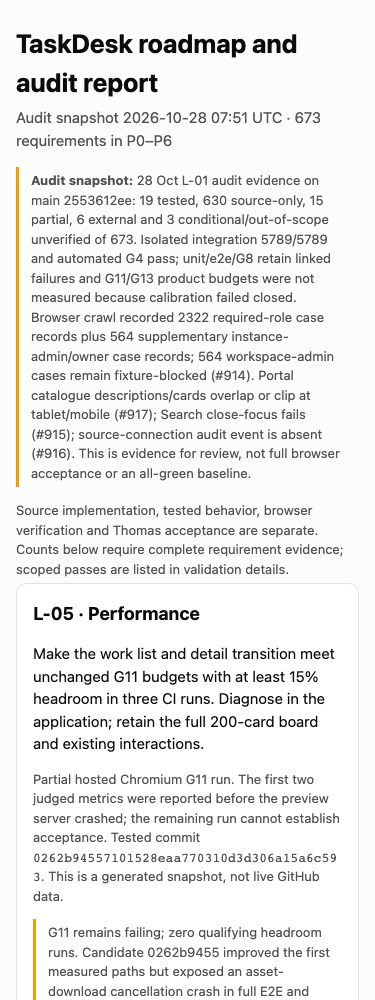
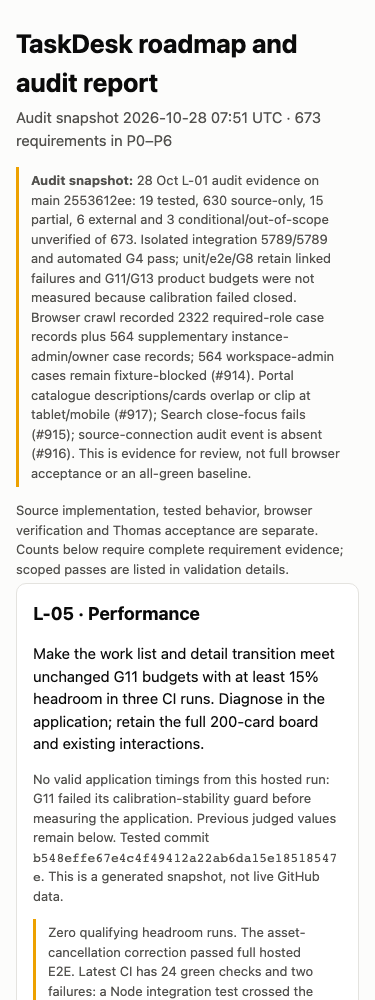
docs(report): expose admin evidence and invalid calibration results

Changed region(s): [[0.088, 0.775, 0.9093, 0.899], [0.1173, 0.93, 0.88, 1.0]]

diff --git a/docs/report/report.html b/docs/report/report.html
@@ -30,10 +30,10 @@ details{margin-top:8px}summary{cursor:pointer;font-weight:600}
 <p class="sub">Audit snapshot 2026-10-28 07:51 UTC · 673 requirements in P0–P6</p>
 <p class="note"><strong>Audit snapshot:</strong> 28 Oct L-01 audit evidence on main 2553612ee: 19 tested, 630 source-only, 15 partial, 6 external and 3 conditional/out-of-scope unverified of 673. Isolated integration 5789/5789 and automated G4 pass; unit/e2e/G8 retain linked failures and G11/G13 product budgets were not measured because calibration failed closed. Browser crawl recorded 2322 required-role case records plus 564 supplementary instance-admin/owner case records; 564 workspace-admin cases remain fixture-blocked (#914). Portal catalogue descriptions/cards overlap or clip at tablet/mobile (#917); Search close-focus fails (#915); source-connection audit event is absent (#916). This is evidence for review, not full browser acceptance or an all-green baseline.</p>
 <p class="meta">Source implementation, tested behavior, browser verification and Thomas acceptance are separate. Counts below require complete requirement evidence; scoped passes are listed in validation details.</p>
-<section class="card"><h2>L-05 · Performance</h2><p>Make the work list and detail transition meet unchanged G11 budgets with at least 15% headroom in three CI runs. Diagnose in the application; retain the full 200-card board and existing interactions.</p><p class="meta">Partial hosted Chromium G11 run. The first two judged metrics were reported before the preview server crashed; the remaining run cannot establish acceptance. Tested commit <code>0262b94557101528eaa770310d3d306a15a6c593</code>. This is a generated snapshot, not live GitHub data.</p><p class="note">G11 remains failing; zero qualifying headroom runs. Candidate 0262b9455 improved the first measured paths but exposed an asset-download cancellation crash in full E2E and G11. A correction is under local validation. The approved isolated workspace-admin fixture passed 24 affected work-item browser cases; broader route and settled visual acceptance remain incomplete.</p><p><a href="https://github.com/ThomasHeinThura/ticketing/pull/919">Draft PR 919</a> · <a href="https://github.com/ThomasHeinThura/ticketing/actions/runs/40751405333/job/123038763633">Hosted CI run and job</a></p>
-<div class="table-wrap" tabindex="0" role="region" aria-label="Latest hosted candidate metrics table"><table><caption>Latest hosted candidate metrics</caption><thead><tr><th scope="col">Metric</th><th scope="col">Measured</th><th scope="col">Budget</th><th scope="col">15% headroom</th><th scope="col">Budget result</th><th scope="col">Headroom result</th></tr></thead><tbody><tr><th scope="row">Work-list LCP</th><td>2637.7 ms</td><td>&lt; 2500 ms</td><td>≤ 2125 ms</td><td class="metric-fail">Fail</td><td class="metric-fail">Fail</td></tr><tr><th scope="row">List to detail</th><td>361.6 ms</td><td>&lt; 300 ms</td><td>≤ 255 ms</td><td class="metric-fail">Fail</td><td class="metric-fail">Fail</td></tr><tr><th scope="row">Board drag p95</th><td>Unavailable</td><td>&lt; 20 ms</td><td>≤ 17 ms</td><td class="">Unverified</td><td class="">Unverified</td></tr><tr><th scope="row">Board render</th><td>Unavailable</td><td>&lt; 500 ms</td><td>≤ 425 ms</td><td class="">Unverified</td><td class="">Unverified</td></tr><tr><th scope="row">Assignment click</th><td>Unavailable</td><td>&lt; 200 ms</td><td>≤ 170 ms</td><td class="">Unverified</td><td class="">Unverified</td></tr><tr><th scope="row">State click</th><td>Unavailable</td><td>&lt; 200 ms</td><td>≤ 170 ms</td><td class="">Unverified</td><td class="">Unverified</td></tr></tbody></table></div><p class="meta">Hosted G11: 10 passed, 12 failed. LCP and detail exceeded budgets before a preview-server streaming-abort crash caused connection-refused failures. Full E2E also failed after that crash. No current-candidate board or assignment acceptance is claimed. The previous complete run is retained below.</p><p class="meta">Verified ec0695723 checks (before the new notification-batching experiment): 3326 web tests, 7 mocked browser journeys, 9 typecheck tasks, clean tracked-source lint (0 errors, 265 existing warnings, 15 infos), 401 contrast pairs and bundle limits pass. Persisted local SIT ec0695723: 96 agent cases (owner/lead/member/viewer × list/table/board/detail × three widths × two themes) and 6 customer portal cases pass after retaining and diagnosing initial harness failures. Pointer and keyboard drag cancellation preserve state/rank/version with zero record writes. Thomas approved an isolated QA workspace/project/identity for #914; workspace-admin-only role verification and 24 work-item cases pass (three widths, both themes, list/table/board/detail and reload). The broader 94-route admin crawl is separate and remains incomplete. These are scoped functional checks; initial captures include progressive placeholders, so whole-matrix settled visual acceptance is pending. Follow-up candidate 0262b9455 passes 7208 unit tests, nine typecheck tasks, 13 mocked browser journeys (including deferred translation failures/retry), 401 contrast pairs, raw UI, permission, contract, route-policy and bundle checks. Its local diagnostic LCP is 2240–2276 ms and detail is 121–170 ms; these are not hosted acceptance or the required headroom. Fresh Testcontainers integration passed 5789 tests across 478 files. Hosted G4 and G8 passed for 0262b9455. Pinned visual G8: 104 passed, one known module-detail mismatch (#908); actual and diff PNGs are byte-identical to the baseline audit. Sequential G4: 19 passed, two board-readiness failures before axe; these are being diagnosed, not waived. Asset-cancellation correction passes two focused HTTP tests plus six helper/adapter tests; it remains uncommitted and unverified by full hosted E2E.</p><details><summary>Previous hosted candidate</summary><p class="meta">Tested commit <code>ec06957233d7b8e9122e8efcc024986108c41e6f</code> · <a href="https://github.com/ThomasHeinThura/ticketing/actions/runs/40731412562/job/122968440838">Previous hosted job</a>. Hosted Chromium G11 harness-reported judged values; calibration was valid per linked job. Board drag p95 is raw.</p><ul><li>Work-list LCP: 2853.6 ms; budget &lt; 2500 ms; headroom target ≤ 2125 ms; budget Fail.</li><li>List to detail: 1103.5 ms; budget &lt; 300 ms; headroom target ≤ 255 ms; budget Fail.</li><li>Board drag p95: 16.8 ms; budget &lt; 20 ms; headroom target ≤ 17 ms; budget Pass.</li><li>Board render: 467.1 ms; budget &lt; 500 ms; headroom target ≤ 425 ms; budget Pass.</li><li>Assignment click: 184.6 ms; budget &lt; 200 ms; headroom target ≤ 170 ms; budget Pass.</li><li>State click: 190.0 ms; budget &lt; 200 ms; headroom target ≤ 170 ms; budget Pass.</li></ul><p class="meta">Hosted CI: 25 other checks green including full integration, G8, G4 and E2E; G11 alone failed (20 passed, 2 failed). Detail value 1103.5 ms is the second judged set; the first set measured 1063.9 ms.</p><p class="meta">Tested commit <code>48dec6ed2dc5daf6c73a771a652a8fb4d58feac8</code> · <a href="https://github.com/ThomasHeinThura/ticketing/actions/runs/40714505114/job/122908390393">Previous hosted job</a>. Hosted Chromium G11 judged values: CPU-bound metrics normalized; board-drag p95 raw. Worker calibration readings were 1.096–1.178; unthrottled readings were 1.166–1.183, within the existing validity envelope.</p><ul><li>Work-list LCP: 2769.5 ms; budget &lt; 2500 ms; headroom target ≤ 2125 ms; budget Fail.</li><li>List to detail: 518 ms; budget &lt; 300 ms; headroom target ≤ 255 ms; budget Fail.</li><li>Board drag p95: 16.8 ms; budget &lt; 20 ms; headroom target ≤ 17 ms; budget Pass.</li><li>Board render: 412.7 ms; budget &lt; 500 ms; headroom target ≤ 425 ms; budget Pass.</li><li>Assignment click: 165.2 ms; budget &lt; 200 ms; headroom target ≤ 170 ms; budget Pass.</li></ul><p class="meta">Hosted E2E 164 passed, 1 failed (create-control regression).</p></details></section>
+<section class="card"><h2>L-05 · Performance</h2><p>Make the work list and detail transition meet unchanged G11 budgets with at least 15% headroom in three CI runs. Diagnose in the application; retain the full 200-card board and existing interactions.</p><p class="meta">No valid application timings from this hosted run: G11 failed its calibration-stability guard before measuring the application. Previous judged values remain below. Tested commit <code>b548effe67e4c4f49412a22ab6da15e18518547e</code>. This is a generated snapshot, not live GitHub data.</p><p class="note">Zero qualifying headroom runs. The asset-cancellation correction passed full hosted E2E. Latest CI has 24 green checks and two failures: a Node integration test crossed the web package boundary, and G11 calibration was unstable. Both remain explicit; no threshold or boundary exemption was added.</p><p><a href="https://github.com/ThomasHeinThura/ticketing/pull/919">Draft PR 919</a> · <a href="https://github.com/ThomasHeinThura/ticketing/actions/runs/40756787932/job/123057737761">Hosted CI run and job</a></p>
+<div class="table-wrap" tabindex="0" role="region" aria-label="Latest hosted candidate metrics table"><table><caption>Latest hosted candidate metrics</caption><thead><tr><th scope="col">Metric</th><th scope="col">Measured</th><th scope="col">Budget</th><th scope="col">15% headroom</th><th scope="col">Budget result</th><th scope="col">Headroom result</th></tr></thead><tbody><tr><th scope="row">Work-list LCP</th><td>Unavailable</td><td>&lt; 2500 ms</td><td>≤ 2125 ms</td><td class="">Unverified</td><td class="">Unverified</td></tr><tr><th scope="row">List to detail</th><td>Unavailable</td><td>&lt; 300 ms</td><td>≤ 255 ms</td><td class="">Unverified</td><td class="">Unverified</td></tr><tr><th scope="row">Board drag p95</th><td>Unavailable</td><td>&lt; 20 ms</td><td>≤ 17 ms</td><td class="">Unverified</td><td class="">Unverified</td></tr><tr><th scope="row">Board render</th><td>Unavailable</td><td>&lt; 500 ms</td><td>≤ 425 ms</td><td class="">Unverified</td><td class="">Unverified</td></tr><tr><th scope="row">Assignment click</th><td>Unavailable</td><td>&lt; 200 ms</td><td>≤ 170 ms</td><td class="">Unverified</td><td class="">Unverified</td></tr><tr><th scope="row">State click</th><td>Unavailable</td><td>&lt; 200 ms</td><td>≤ 170 ms</td><td class="">Unverified</td><td class="">Unverified</td></tr></tbody></table></div><p class="meta">Hosted b548effe6: E2E, G4, G8 and integration passed. G11 failed closed because throttled calibration batch spread 0.582 exceeded the unchanged 0.55 guard (one failure; 21 tests did not run). Static checks rejected the web-source test importing API code. The Node transport/test extraction now passes eight focused tests, API/web typechecks and the original dependency-boundary checker locally; hosted verification of that correction is pending.</p><p class="meta">At b548effe6: 7211 unit tests, 5789 fresh Testcontainers integration tests across 478 files, 166 full Chromium E2E tests, nine typecheck tasks, clean-source lint, raw UI, 401 contrast pairs, permission/route-policy/contract and bundle checks pass. Local pinned G8 retains the known module-detail mismatch (#908): 104/105, with actual/diff images byte-identical to L-01. Local pinned G4 recorded two board-readiness failures (19/21); these are not described as passes. Persisted SIT remains ec0695723; candidate SIT acceptance is pending. The lazy-formatter experiment removes 81.9 ms of sampled unused initialization but has no demonstrated net LCP gain (uncalibrated three-run medians 3876 vs 3976 ms); no performance acceptance is claimed.</p><details><summary>Workspace-admin follow-up evidence</summary><p class="meta">Approved isolated workspace-admin fixture: 24 affected work-item cases passed; six representative captures were visually inspected. Broader crawl recorded all 564 planned cases: 54 settled content, 84 expected denials, 132 missing fixtures and 294 unconfirmed. This is partial evidence, not whole-feature or whole-matrix visual acceptance; issue #914 remains open. Existing memberships/customer records were preserved and the SIT account seeder was not rerun.</p><p><a href="https://github.com/ThomasHeinThura/ticketing/blob/936868c9ba8c45607f3522c8eceee2f2af88d071/docs/report/audit/l05-workspace-admin-followup.json">Role assertions and complete case ledger</a></p><ul><li><a href="https://github.com/ThomasHeinThura/ticketing/blob/936868c9ba8c45607f3522c8eceee2f2af88d071/docs/report/browser/l05-workspace-admin/admin-light-1440-list.png">Desktop light list</a></li><li><a href="https://github.com/ThomasHeinThura/ticketing/blob/936868c9ba8c45607f3522c8eceee2f2af88d071/docs/report/browser/l05-workspace-admin/admin-dark-1440-board.png">Desktop dark board</a></li><li><a href="https://github.com/ThomasHeinThura/ticketing/blob/936868c9ba8c45607f3522c8eceee2f2af88d071/docs/report/browser/l05-workspace-admin/admin-light-768-table.png">Tablet light table</a></li><li><a href="https://github.com/ThomasHeinThura/ticketing/blob/936868c9ba8c45607f3522c8eceee2f2af88d071/docs/report/browser/l05-workspace-admin/admin-dark-768-detail.png">Tablet dark detail</a></li><li><a href="https://github.com/ThomasHeinThura/ticketing/blob/936868c9ba8c45607f3522c8eceee2f2af88d071/docs/report/browser/l05-workspace-admin/admin-light-375-detail.png">Mobile light detail</a></li><li><a href="https://github.com/ThomasHeinThura/ticketing/blob/936868c9ba8c45607f3522c8eceee2f2af88d071/docs/report/browser/l05-workspace-admin/admin-dark-375-list.png">Mobile dark list</a></li></ul></details><details><summary>Previous hosted candidates</summary><p class="meta">Tested commit <code>0262b94557101528eaa770310d3d306a15a6c593</code> · <a href="https://github.com/ThomasHeinThura/ticketing/actions/runs/40751405333/job/123038763633">Previous hosted job</a>. Partial hosted Chromium G11 run. The first two judged metrics were reported before the preview server crashed; the remaining run cannot establish acceptance.</p><ul><li>Work-list LCP: 2637.7 ms; budget &lt; 2500 ms; headroom target ≤ 2125 ms; budget Fail.</li><li>List to detail: 361.6 ms; budget &lt; 300 ms; headroom target ≤ 255 ms; budget Fail.</li><li>Board drag p95: Unavailable; budget &lt; 20 ms; headroom target ≤ 17 ms; budget Unverified.</li><li>Board render: Unavailable; budget &lt; 500 ms; headroom target ≤ 425 ms; budget Unverified.</li><li>Assignment click: Unavailable; budget &lt; 200 ms; headroom target ≤ 170 ms; budget Unverified.</li><li>State click: Unavailable; budget &lt; 200 ms; headroom target ≤ 170 ms; budget Unverified.</li></ul><p class="meta">Hosted G11: 10 passed, 12 failed. LCP and detail exceeded budgets before a preview-server streaming-abort crash caused connection-refused failures. Full E2E also failed after that crash. No current-candidate board or assignment acceptance is claimed. The previous complete run is retained below.</p><p class="meta">Tested commit <code>ec06957233d7b8e9122e8efcc024986108c41e6f</code> · <a href="https://github.com/ThomasHeinThura/ticketing/actions/runs/40731412562/job/122968440838">Previous hosted job</a>. Hosted Chromium G11 harness-reported judged values; calibration was valid per linked job. Board drag p95 is raw.</p><ul><li>Work-list LCP: 2853.6 ms; budget &lt; 2500 ms; headroom target ≤ 2125 ms; budget Fail.</li><li>List to detail: 1103.5 ms; budget &lt; 300 ms; headroom target ≤ 255 ms; budget Fail.</li><li>Board drag p95: 16.8 ms; budget &lt; 20 ms; headroom target ≤ 17 ms; budget Pass.</li><li>Board render: 467.1 ms; budget &lt; 500 ms; headroom target ≤ 425 ms; budget Pass.</li><li>Assignment click: 184.6 ms; budget &lt; 200 ms; headroom target ≤ 170 ms; budget Pass.</li><li>State click: 190.0 ms; budget &lt; 200 ms; headroom target ≤ 170 ms; budget Pass.</li></ul><p class="meta">Hosted CI: 25 other checks green including full integration, G8, G4 and E2E; G11 alone failed (20 passed, 2 failed). Detail value 1103.5 ms is the second judged set; the first set measured 1063.9 ms.</p><p class="meta">Tested commit <code>48dec6ed2dc5daf6c73a771a652a8fb4d58feac8</code> · <a href="https://github.com/ThomasHeinThura/ticketing/actions/runs/40714505114/job/122908390393">Previous hosted job</a>. Hosted Chromium G11 judged values: CPU-bound metrics normalized; board-drag p95 raw. Worker calibration readings were 1.096–1.178; unthrottled readings were 1.166–1.183, within the existing validity envelope.</p><ul><li>Work-list LCP: 2769.5 ms; budget &lt; 2500 ms; headroom target ≤ 2125 ms; budget Fail.</li><li>List to detail: 518 ms; budget &lt; 300 ms; headroom target ≤ 255 ms; budget Fail.</li><li>Board drag p95: 16.8 ms; budget &lt; 20 ms; headroom target ≤ 17 ms; budget Pass.</li><li>Board render: 412.7 ms; budget &lt; 500 ms; headroom target ≤ 425 ms; budget Pass.</li><li>Assignment click: 165.2 ms; budget &lt; 200 ms; headroom target ≤ 170 ms; budget Pass.</li></ul><p class="meta">Hosted E2E 164 passed, 1 failed (create-control regression).</p></details></section>
 <section class="card"><h2>Roadmap</h2>
-<p class="meta">Updated 2026-10-28 19:25 UTC · retained backlog order</p>
+<p class="meta">Updated 2026-10-28 21:00 UTC · retained backlog order</p>
 <div class="table-wrap" tabindex="0" role="region" aria-label="Ordered backlog table"><table><caption>Ordered backlog</caption><thead><tr><th scope="col">Item</th><th scope="col">Status</th><th scope="col">Done when</th></tr></thead><tbody><tr><th scope="row"><a href="https://github.com/ThomasHeinThura/ticketing/pull/918">L-01</a> · Baseline full audit</th><td>Evidence delivered; PR unmerged</td><td>Review, required CI and Thomas approval; blocked evidence remains explicit.</td></tr><tr><th scope="row"><a href="https://github.com/ThomasHeinThura/ticketing/pull/919">L-05</a> · Work-list performance headroom</th><td>In progress; draft PR</td><td>G11 green with at least 15% headroom for three CI runs.</td></tr><tr><th scope="row">L-02 · Test-suite reliability</th><td>Queued</td><td>Three consecutive green CI runs without retries; typical PR run ≤ 15 minutes.</td></tr><tr><th scope="row">L-03a · Release regression suite</th><td>Queued</td><td>Persisted journeys cover every area and role on local SIT.</td></tr><tr><th scope="row">L-03 · Settings split by scope</th><td>Queued</td><td>Account, project, workspace and God Mode entry points; redirects and role/browser checks.</td></tr><tr><th scope="row">L-04 · Pages editor</th><td>Queued</td><td>Keyboard-first block editor with persistence, conflict handling and browser verification.</td></tr><tr><th scope="row">L-06 · Open review lows</th><td>Queued</td><td>Fix each low or record an accepted decision.</td></tr><tr><th scope="row">L-07 · Requirement gaps</th><td>Queued</td><td>Close each confirmed gap with evidence or obtain an explicit descope.</td></tr><tr><th scope="row">L-08 · Browser coverage</th><td>Queued</td><td>Record outstanding role, screen, import, export and timing evidence.</td></tr><tr><th scope="row">L-09 · Security and data hardening</th><td>Queued</td><td>Fix issues with tests or close them with recorded decisions.</td></tr><tr><th scope="row">L-10 · Customer readiness</th><td>Queued</td><td>Install, configure, upgrade and restore the signed image with matching documentation.</td></tr><tr><th scope="row">L-11 · CI tooling issues</th><td>Queued</td><td>Fix or close obsolete issues with evidence.</td></tr><tr><th scope="row">T-1 · Thomas-only external evidence</th><td>External</td><td>Thomas records Entra validation, penetration test and other external decisions.</td></tr></tbody></table></div></section>
 <h2>Historical audit and phase evidence</h2>
 <section class="card"><h2>Overall</h2><svg viewBox="0 0 640 26" role="img" aria-label="ALL requirement states, Implemented + current test evidence: 19, Browser verified: 0, Implemented; current verification pending: 630, Partial / open: 15, Missing: 0, Externally blocked: 6, Unverified / conditional scope: 3" class="bar"><rect x="1" y="0" width="16.068350668647845" height="26" rx="3" class="c1"><title>Implemented + current test evidence: 19</title></rect><rect x="19.068350668647845" y="0" width="597.108469539376" height="26" rx="3" class="c2"><title>Implemented; current verification pending: 630</title></rect><rect x="618.1768202080239" y="0" width="12.264487369985142" height="26" rx="3" class="c3"><title>Partial / open: 15</title></rect><rect x="632.441307578009" y="0" width="3.7057949479940557" height="26" rx="3" class="c5"><title>Externally blocked: 6</title></rect><rect x="638.147102526003" y="0" width="1" height="26" rx="3" class="c6"><title>Unverified / conditional scope: 3</title></rect></svg><div class="legend"><span class="lg"><i class="c1"></i>Implemented + current test evidence: 19</span><span class="lg"><i class="c7"></i>Browser verified: 0</span><span class="lg"><i class="c2"></i>Implemented; current verification pending: 630</span><span class="lg"><i class="c3"></i>Partial / open: 15</span><span class="lg"><i class="c4"></i>Missing: 0</span><span class="lg"><i class="c5"></i>Externally blocked: 6</span><span class="lg"><i class="c6"></i>Unverified / conditional scope: 3</span></div></section>
